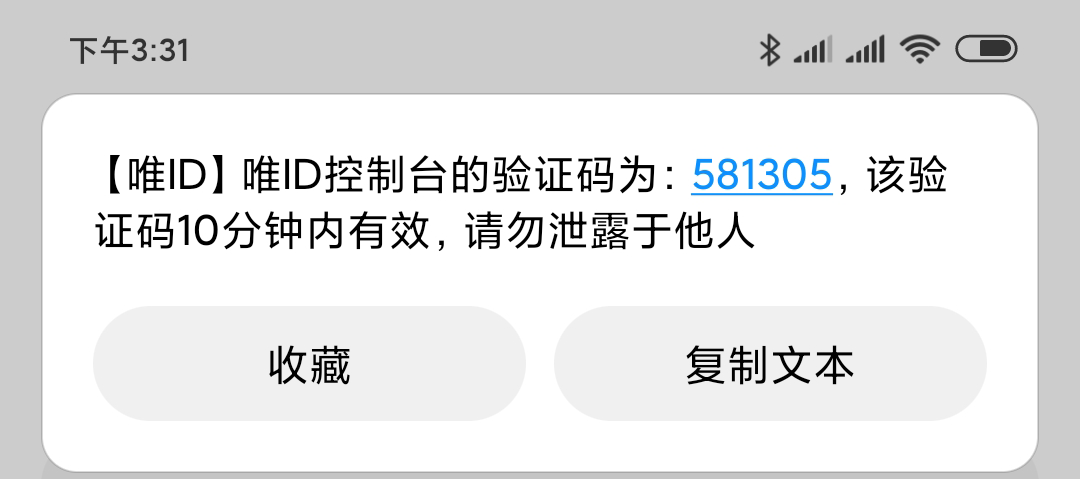
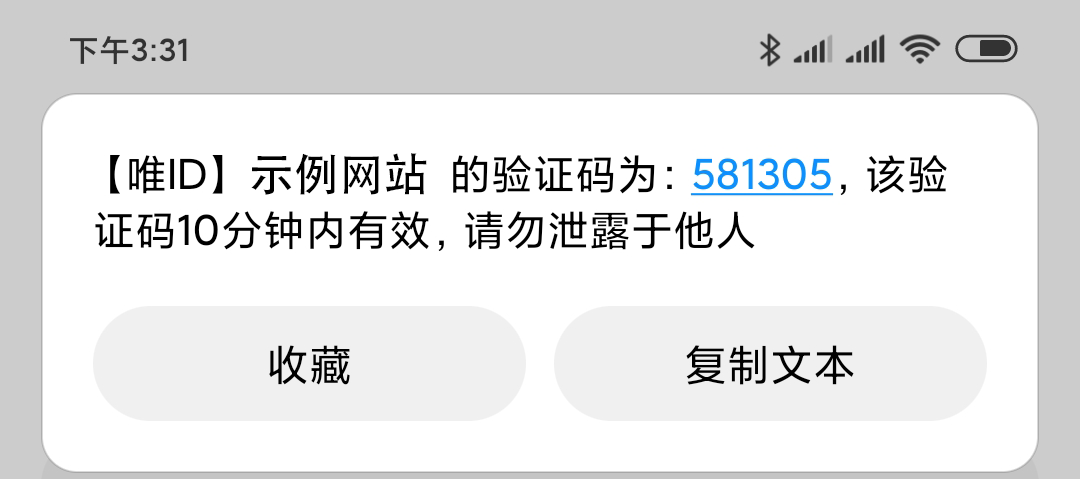
refactor: 官网首页图片换成示例网站的

Changed region(s): [[0.2139, 0.3215, 0.4278, 0.4092]]

diff --git a/src/components/Layout/index.js b/src/components/Layout/index.js
@@ -1,7 +1,7 @@
 import React, { PureComponent } from "react";
 import Header from "./Header";
 import HeaderM from "./HeaderM";
-import { Button, Dialog, DialogTitle, Hidden, IconButton } from "@material-ui/core";
+import { Button, Dialog, DialogTitle, Divider, Hidden, IconButton } from "@material-ui/core";
 import Footer from "./Footer";
 import styles from "./Header.module.css";
 import { Close } from "@material-ui/icons";
@@ -15,10 +15,6 @@ class Layout extends PureComponent {
 
     toggleDialog = () => {
         this.setState(state => ({ dialog1Visible: !state.dialog1Visible }));
-    };
-
-    goConsole = () => {
-        window.location.assign("https://www.onlyid.net/console");
     };
 
     render() {
@@ -54,9 +50,23 @@ class Layout extends PureComponent {
                                 variant="contained"
                                 size="large"
                                 color="primary"
-                                onClick={this.goConsole}
+                                onClick={() =>
+                                    window.location.assign("https://www.onlyid.net/console")
+                                }
+                                style={{ animation: "breath-animate 3s infinite ease" }}
                             >
                                 开始使用
+                            </Button>
+                        </div>
+                        <Divider style={{ margin: "1.5rem 0" }} />
+                        <p className="p2">你也可以访问网页版示例Demo，查看效果。</p>
+                        <div className={styles.buttonBox}>
+                            <Button
+                                variant="contained"
+                                size="large"
+                                onClick={() => window.open("https://www.onlyid.net/demo")}
+                            >
+                                在线体验
                             </Button>
                         </div>
                     </div>

diff --git a/src/pages/Docs/Menu.js b/src/pages/Docs/Menu.js
@@ -15,9 +15,9 @@ function MyListItem({ to, children }) {
 }
 
 export default function() {
-    const [ssoVisible, setSsoVisible] = useState(false);
-    const [iamVisible, setIamVisible] = useState(false);
-    const [otherVisible, setOtherVisible] = useState(false);
+    const [ssoVisible, setSsoVisible] = useState(true);
+    const [iamVisible, setIamVisible] = useState(true);
+    const [otherVisible, setOtherVisible] = useState(true);
 
     return (
         <List component="nav" className={styles.menu}>

diff --git a/src/components/Layout/Header.module.css b/src/components/Layout/Header.module.css
@@ -107,7 +107,3 @@
     top: 0.2rem;
     color: #7f7f7f;
 }
-
-.dialog1 .buttonBox :global .MuiButton-root {
-    animation: breath-animate 3s infinite ease;
-}
